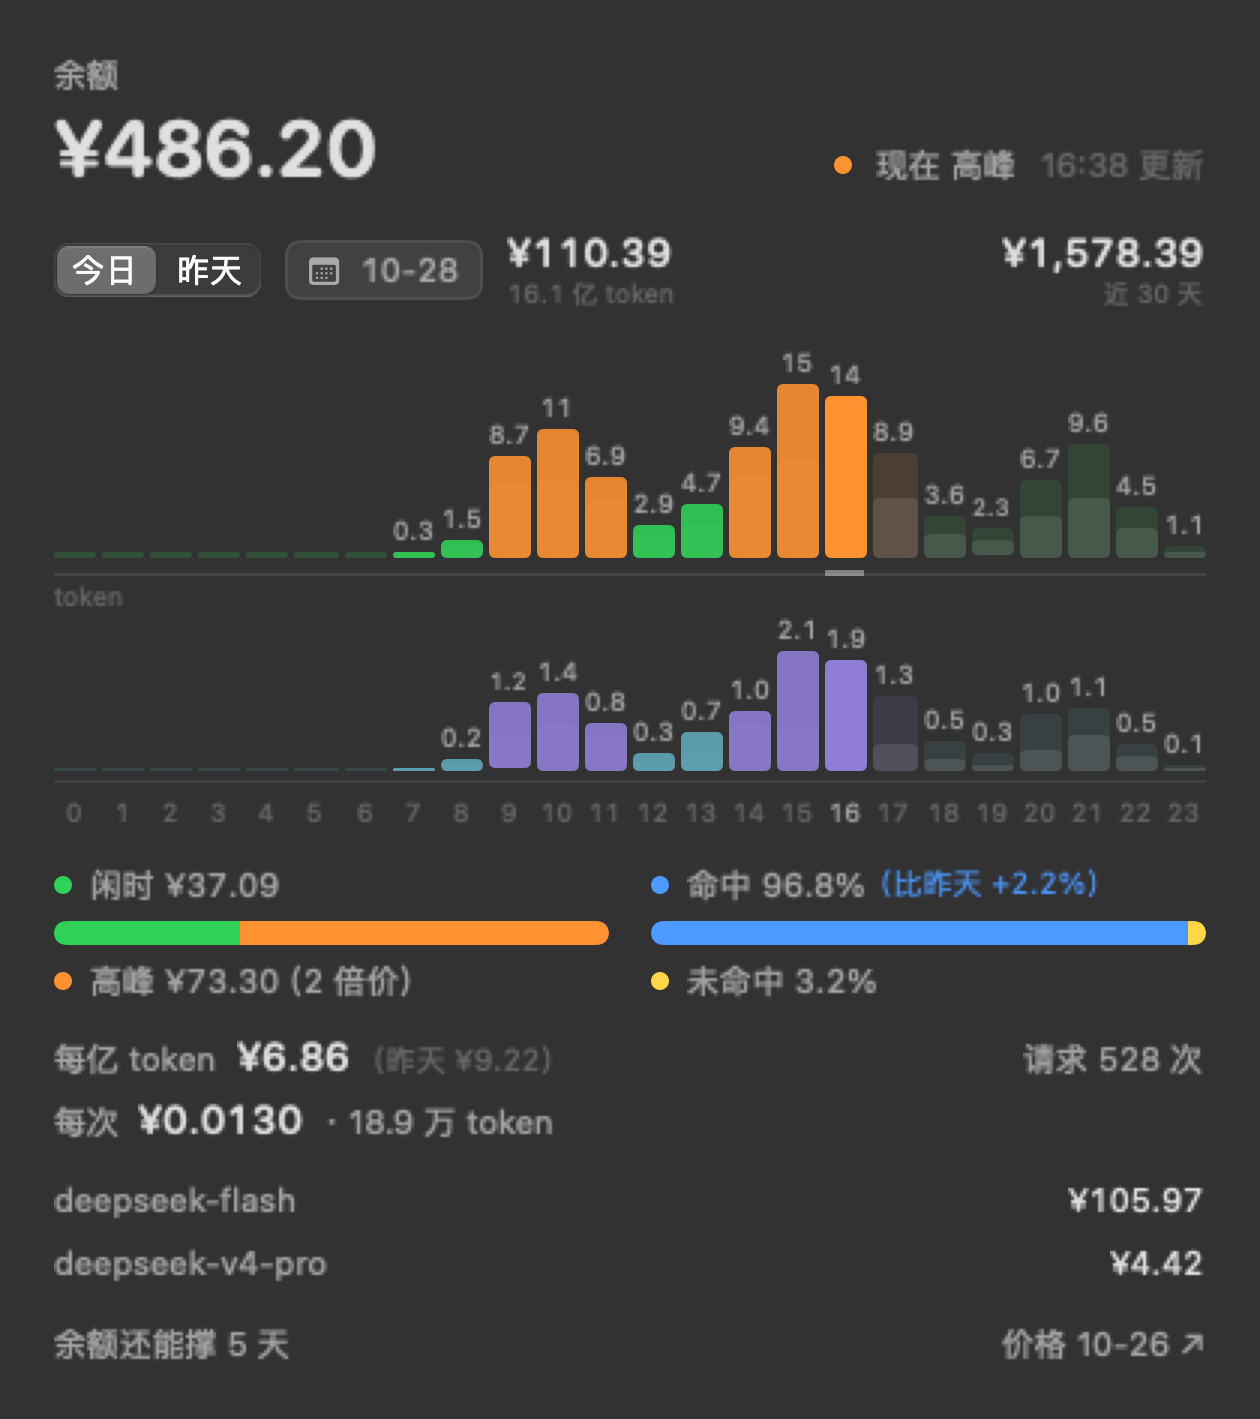
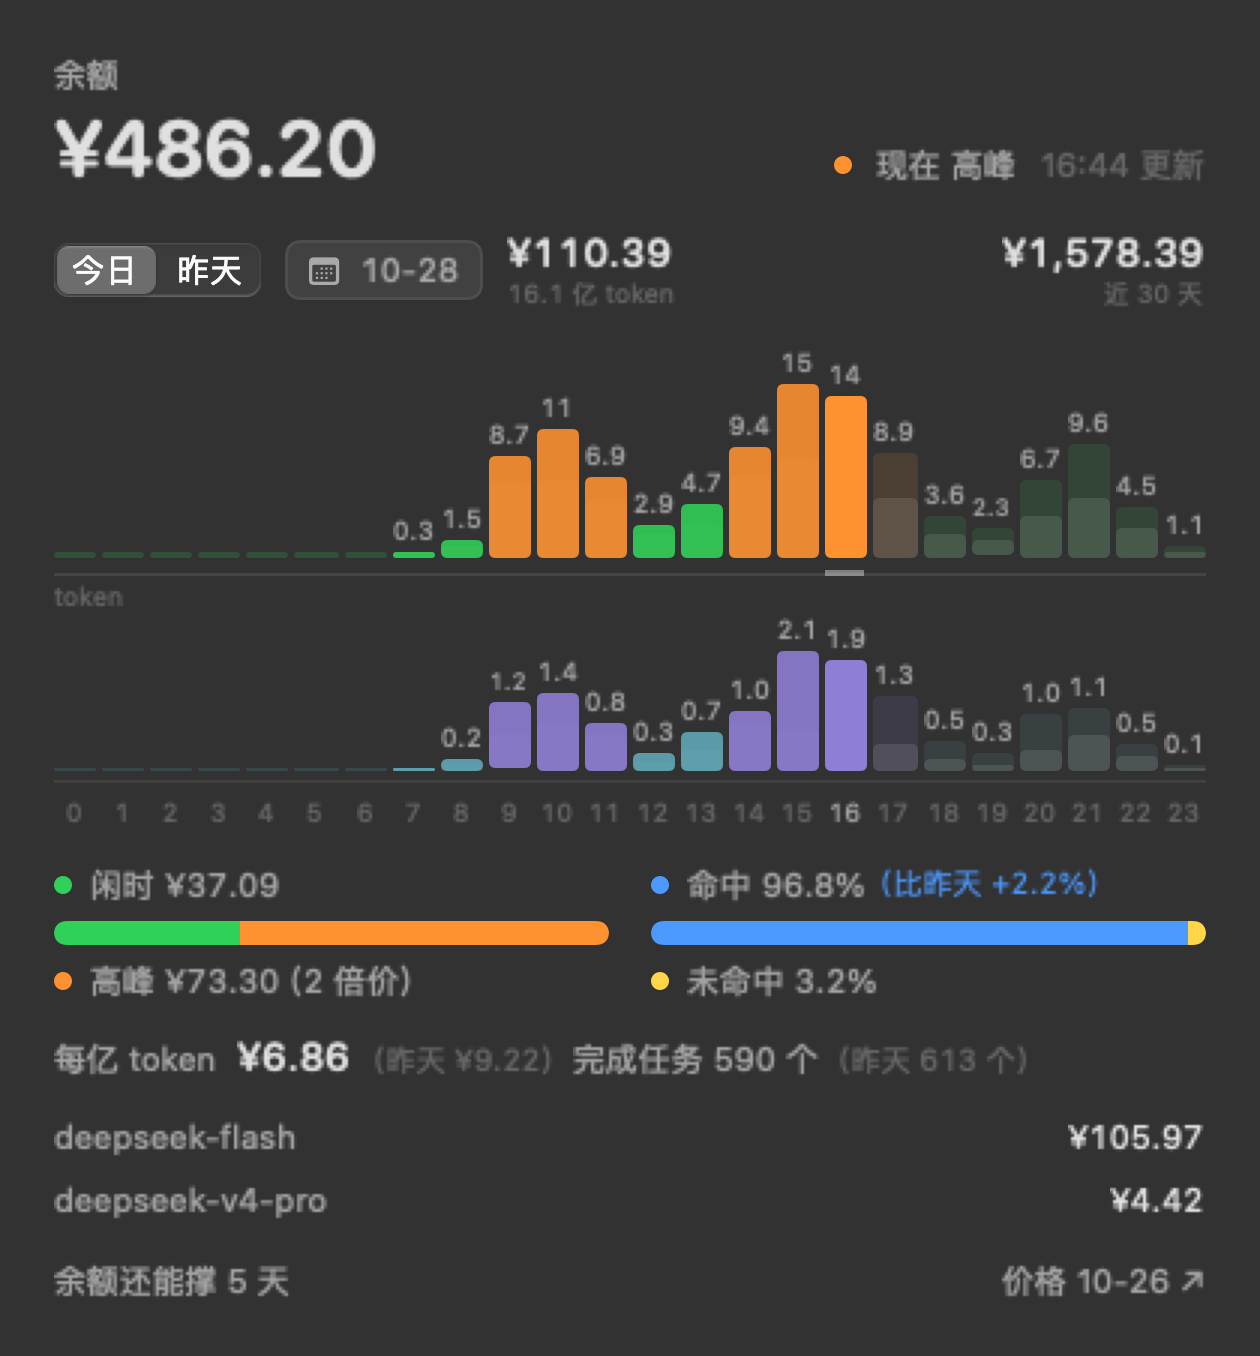
每亿 token 那行右侧改叫「完成任务 N 个」，带前一天对照（按小时留请求数，对照截到同一时刻）

diff --git a/Sources/DSMeter/L10n.swift b/Sources/DSMeter/L10n.swift
@@ -98,10 +98,10 @@ enum T {
         case .hourChart: return "上面一层是每小时花了多少（绿闲时、橙高峰，淡的是还没到的时段），下面一层是同一小时的 token 量；灰的是前一天同一小时"
         case .tokenLayer: return "token"
         case .unitPrice: return "每亿 token"
-        case .requests: return "请求"
+        case .requests: return "完成任务"
         case .perRequest: return "每次"
         case .requestHelp: return "平台记的请求数：一次 API 调用算一次（工具每转一圈算一次，子代理跑的也算），账单接口只给这个总数，拆不出哪几次是我自己问的。后面的「每次」= 那天的钱 ÷ 那天的请求数、那天的 token ÷ 那天的请求数。"
-        case .unitPriceHelp: return "那天的花费 ÷ 那天的 token 量（命中 + 未命中 + 输出）× 1 亿。高峰时段长、缓存没命中，这个数就高。右边的请求数就是 1 亿 ÷ 每次的 token 量：每亿 token 摊到多少次调用。"
+        case .unitPriceHelp: return "左边：那天的花费 ÷ 那天的 token 量（命中 + 未命中 + 输出）× 1 亿；高峰时段长、缓存没命中，这个数就高。右边：每亿 token 摊到多少次「完成任务」（= 1 亿 ÷ 每次的 token 量），括号里是前一天截到同一时刻的数。一次 API 调用算完成一次（工具每转一圈、子代理跑的都在里面）。"
         case .menuRefresh: return "刷新"
         case .menuSettings: return "设置…"
         case .menuLogin: return "登录网页…"
@@ -209,10 +209,10 @@ enum T {
         case .hourChart: return "Top: spend per hour (green off-peak, orange peak, faded = not yet). Below: tokens for the same hour. Grey is the same hour yesterday."
         case .tokenLayer: return "tokens"
         case .unitPrice: return "Per 100M tokens"
-        case .requests: return "Requests"
+        case .requests: return "Tasks"
         case .perRequest: return "Each"
         case .requestHelp: return "Requests as the platform counts them: one per API call — every tool round and every subagent run; the billing API only gives this total. “Each” is that day's spend ÷ requests, and that day's tokens ÷ requests."
-        case .unitPriceHelp: return "The day's spend ÷ its tokens (cache hit + miss + output) × 100M. More peak hours or more cache misses push it up. The requests on the right are 100M ÷ tokens per request: how many calls one 100M tokens takes."
+        case .unitPriceHelp: return "Left: the day's spend ÷ its tokens (cache hit + miss + output) × 100M — more peak hours or cache misses push it up. Right: completed tasks per 100M tokens (100M ÷ tokens per call), with the previous day cut to the same hour in brackets. One API call counts as one task, tool rounds and subagent runs included."
         case .menuRefresh: return "Refresh"
         case .menuSettings: return "Settings…"
         case .menuLogin: return "Sign in on the web…"
@@ -311,10 +311,20 @@ enum L {
         return "\(head) \(T.tokenCount.s)"
     }
 
-    /// 「每亿 token 摊到多少次请求」："请求 595 次" / "595 requests"。
-    static func requestsPer100M(_ count: Int) -> String {
+    /// 「每亿 token 摊到多少次」："完成任务 595 个" / "595 tasks"。
+    static func tasksPer100M(_ count: Int) -> String {
         let number = Fmt.count(count)
-        return Lang.current == .zh ? "\(T.requests.s) \(number) 次" : "\(number) requests"
+        return Lang.current == .zh ? "\(T.requests.s) \(number) 个" : "\(number) tasks"
+    }
+
+    /// 后面那个对照：「（昨天 588 个）」/ "(yesterday 588)"。
+    static func tasksPer100MReference(_ count: String, relation: String) -> String {
+        switch Lang.current {
+        case .zh:
+            return "（\(relation) \(count) 个）"
+        case .en:
+            return "(\(relation.prefix(1).lowercased())\(relation.dropFirst()) \(count))"
+        }
     }
 
     /// 一次请求过了多少 token："16.9 万 token" / "169K tokens"。单位跟 token 那一层同一套（万/亿、K/M）。

diff --git a/Sources/DSMeter/MeterPanel.swift b/Sources/DSMeter/MeterPanel.swift
@@ -153,7 +153,6 @@ struct MeterPanel: View {
 
                 unitPriceRow.padding(.top, 10).dismissesPicker(closePicker)
 
-                perRequestRow.padding(.top, 5).dismissesPicker(closePicker)
                 if modelSlots > 0 {
                     VStack(alignment: .leading, spacing: 7) {
                         ForEach(0..<modelSlots, id: \.self) { index in
@@ -556,8 +555,9 @@ struct MeterPanel: View {
 
     /// 那天花了多少 ÷ 那天的 token 量。切日跟着变；后面括号里是前一天同一个数，
     /// 拿它当尺子——两个数一比就知道那天是高峰多、还是缓存没命中。
-    /// 右边是同一把尺子上的另一格：每亿 token 摊到多少次请求（= 1 亿 ÷ 每次的 token 量）。
-    /// 单价是「贵不贵」，次数是「碎不碎」——同一天里两个数一起看才知道钱是被单次变大推高的，还是被次数推高的。
+    /// 右边紧跟着同一把尺子上的另一格：每亿 token 摊到多少次请求（= 1 亿 ÷ 每次的 token 量），
+    /// 也带前一天的对照。单价是「贵不贵」，次数是「碎不碎」——两个数一起看才知道钱是被单次变大推高的，
+    /// 还是被次数推高的。
     private var unitPriceRow: some View {
         let price = dayLoaded ? day.unitPricePer100M : nil
         return HStack(alignment: .firstTextBaseline, spacing: 6) {
@@ -583,50 +583,24 @@ struct MeterPanel: View {
                 .monospacedDigit()
                 .foregroundStyle(.tertiary)
             }
-            Spacer(minLength: 8)
-            if let per = perRequest, per.tokens > 0 {
-                Text(L.requestsPer100M(Int((100_000_000.0 / Double(per.tokens)).rounded())))
+            if let count = day.requestsPer100M() {
+                Text(L.tasksPer100M(count))
                     .font(Style.body)
                     .monospacedDigit()
                     .foregroundStyle(.secondary)
-            }
-        }
-        .help(T.unitPriceHelp.s)
-    }
-
-    // MARK: - 一次请求多少钱
-
-    /// 那天的钱 ÷ 请求数，那天的 token ÷ 请求数。
-    /// 只摆这两个：请求数本身（含工具每一转和子代理）除以金额就行，摆出来反而占一行的位置。
-    private var perRequestRow: some View {
-        let per = perRequest
-        return HStack(alignment: .firstTextBaseline, spacing: 6) {
-            Text(T.perRequest.s)
-                .font(Style.body)
-                .foregroundStyle(.secondary)
-            if let per {
-                Text(Fmt.moneyFine(per.cost))
-                    .font(Style.value)
+                if let previous = meter.snap.previousRequestDensity(selected: meter.selected) {
+                    Text(L.tasksPer100MReference(
+                        Fmt.count(previous),
+                        relation: meter.selected == 0 ? T.yesterday.s : T.previousDay.s
+                    ))
+                    .font(.system(size: 10))
                     .monospacedDigit()
-                Text("· \(L.tokenSize(per.tokens))")
-                    .font(Style.body)
-                    .foregroundStyle(.secondary)
-            } else {
-                Text("—")
-                    .font(Style.value)
-                    .monospacedDigit()
-                    .foregroundStyle(.secondary)
+                    .foregroundStyle(.tertiary)
+                }
             }
             Spacer(minLength: 0)
         }
-        .help(T.requestHelp.s)
-    }
-
-    /// 那天的钱 ÷ 请求数、token ÷ 请求数。两个接口只回来一份时（没请求、没钱）不给数。
-    private var perRequest: (cost: Double, tokens: Int)? {
-        guard dayLoaded, day.requests > 0 else { return nil }
-        guard day.money > 0 || day.tokenTotal > 0 else { return nil }
-        return (day.money / Double(day.requests), day.tokenTotal / day.requests)
+        .help(T.unitPriceHelp.s)
     }
 
     // MARK: - 页脚

diff --git a/Sources/DSMeter/Meter.swift b/Sources/DSMeter/Meter.swift
@@ -350,6 +350,14 @@ final class Meter: ObservableObject {
                     response: Int(tokens * 0.04 * 0.15)
                 ),
             ]
+            // 每小时的请求数：按 token 的分布摊下去（真实数据里两者基本同形）
+            let requestTotal = bill.tokens.values.reduce(0) { $0 + $1.requests }
+            let tokenTotal = bill.hourTokens.reduce(0, +)
+            if tokenTotal > 0 {
+                for hour in 0..<24 {
+                    bill.hourRequests[hour] = Int((bill.hourTokens[hour] / tokenTotal * Double(requestTotal)).rounded())
+                }
+            }
             return bill
         }
 
@@ -415,6 +423,8 @@ struct DayCost {
     var hours: [Double] = Array(repeating: 0, count: 24)
     /// 每小时的 token 量（命中 + 未命中 + 输出，跨模型）
     var hourTokens: [Double] = Array(repeating: 0, count: 24)
+    /// 每小时的请求数（跨模型）
+    var hourRequests: [Int] = Array(repeating: 0, count: 24)
     /// 每小时的命中 / 未命中 token（跨模型）：只为了能算出「前几个小时」的命中率。
     var hourHit: [Int] = Array(repeating: 0, count: 24)
     var hourMiss: [Int] = Array(repeating: 0, count: 24)
@@ -432,6 +442,7 @@ struct DayCost {
     init(bill: PlatformClient.DayBill, weekday: Int) {
         self.hours = bill.hours
         self.hourTokens = bill.hourTokens
+        self.hourRequests = bill.hourRequests
         self.hourHit = bill.hourHit
         self.hourMiss = bill.hourMiss
         self.weekday = weekday
@@ -497,6 +508,16 @@ struct DayCost {
         let tokenSum = hourTokens.prefix(end).reduce(0, +)
         return tokenSum > 0 ? moneySum / tokenSum * 100_000_000 : nil
     }
+
+    /// 每亿 token 摊到多少次请求（= 1 亿 × 请求数 ÷ token 数）。同样能只算前 `hour` 个小时。
+    /// 用整数那两个和直接算，不先算「每次多少 token」再除回去——两次取整会让面板上两个数对不上。
+    func requestsPer100M(upto hour: Int = 24) -> Int? {
+        let end = max(0, min(24, hour))
+        let tokenSum = hourTokens.prefix(end).reduce(0, +)
+        let requestSum = hourRequests.prefix(end).reduce(0, +)
+        guard tokenSum > 0, requestSum > 0 else { return nil }
+        return Int((100_000_000 * Double(requestSum) / tokenSum).rounded())
+    }
 }
 
 struct Snapshot {
@@ -560,5 +581,14 @@ struct Snapshot {
             return nil
         }
         return (current, previous)
+    }
+
+    /// 括号里那个对照：前一天同一时长的「每亿 token 摊到多少次」。
+    /// 取法跟单价那个括号一模一样——看今天时把前一天截到同一时刻，否则拿人家的整天比半天，比出来的是假的涨跌。
+    func previousRequestDensity(selected: Int, now: Date = Date()) -> Int? {
+        guard selected == 0 else { return days[selected + 1]?.requestsPer100M() }
+        let elapsed = PeakHours.hour(of: now)
+        guard elapsed > 0 else { return days[1]?.requestsPer100M() }
+        return days[1]?.requestsPer100M(upto: elapsed)
     }
 }

diff --git a/Sources/DSMeter/PlatformClient.swift b/Sources/DSMeter/PlatformClient.swift
@@ -39,6 +39,8 @@ enum PlatformClient {
                                 // 第二张柱状图用：按小时把三种 token 加起来（命中 + 未命中 + 输出），跨模型累加
                                 let hour = PeakHours.hour(of: Date(timeIntervalSince1970: TimeInterval(bucket.time)))
                                 bill.hourTokens[hour] += Double(bucket.usage.hit + bucket.usage.miss + bucket.usage.response)
+                                // 按小时留一份请求数：跟昨天比时得比「到同一时刻」，半天比整天比出的是假的涨跌
+                                bill.hourRequests[hour] += bucket.usage.request
                                 // 只给「跟昨天同一时段」那种比法用：按小时留下命中 / 未命中
                                 bill.hourHit[hour] += bucket.usage.hit
                                 bill.hourMiss[hour] += bucket.usage.miss
@@ -132,6 +134,8 @@ enum PlatformClient {
         var hours: [Double] = Array(repeating: 0, count: 24)
         /// 每小时的 token 量（命中 + 未命中 + 输出，跨模型）
         var hourTokens: [Double] = Array(repeating: 0, count: 24)
+        /// 每小时的请求数（跨模型）
+        var hourRequests: [Int] = Array(repeating: 0, count: 24)
         /// 每小时的命中 / 未命中 token（跨模型）：「比昨天」要拿同一段时长出来比，总数算不出来。
         var hourHit: [Int] = Array(repeating: 0, count: 24)
         var hourMiss: [Int] = Array(repeating: 0, count: 24)
